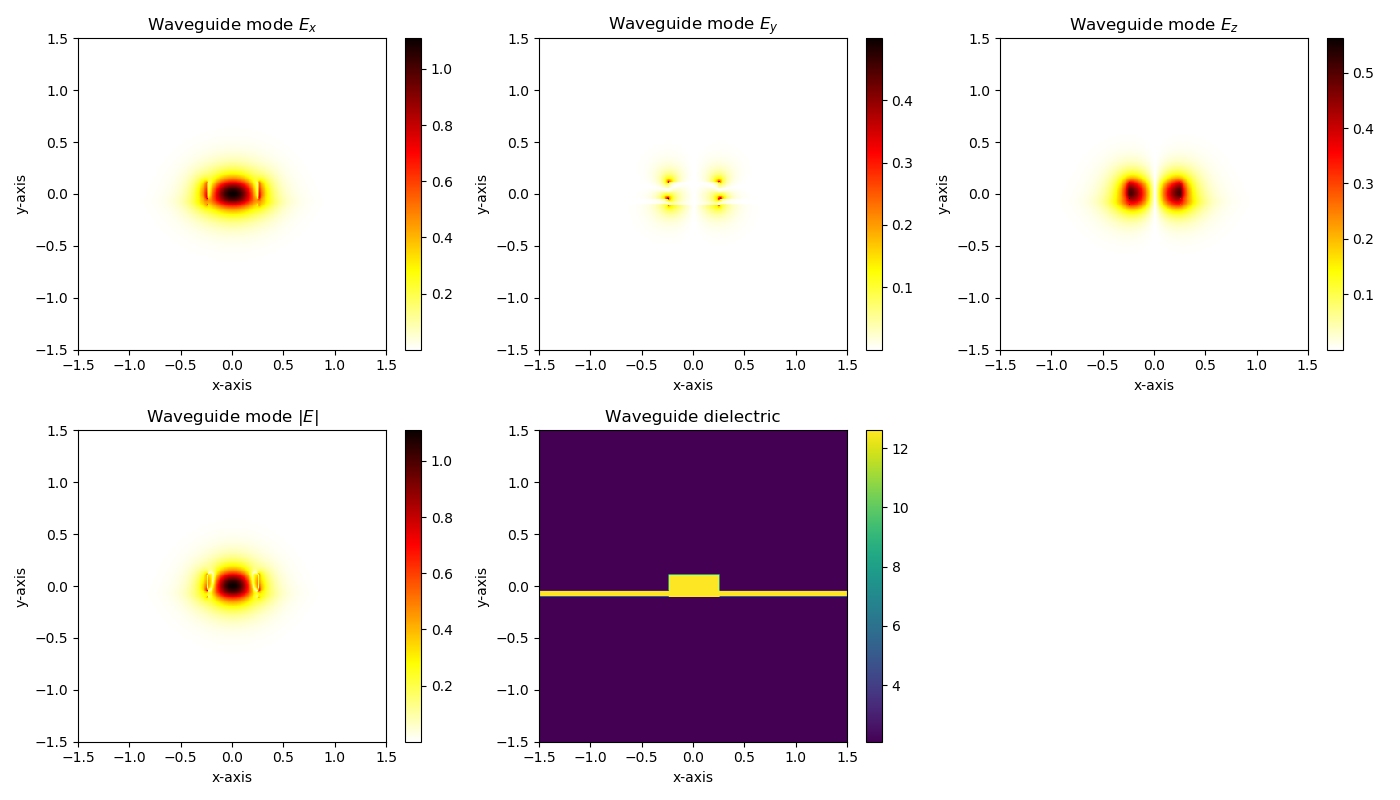
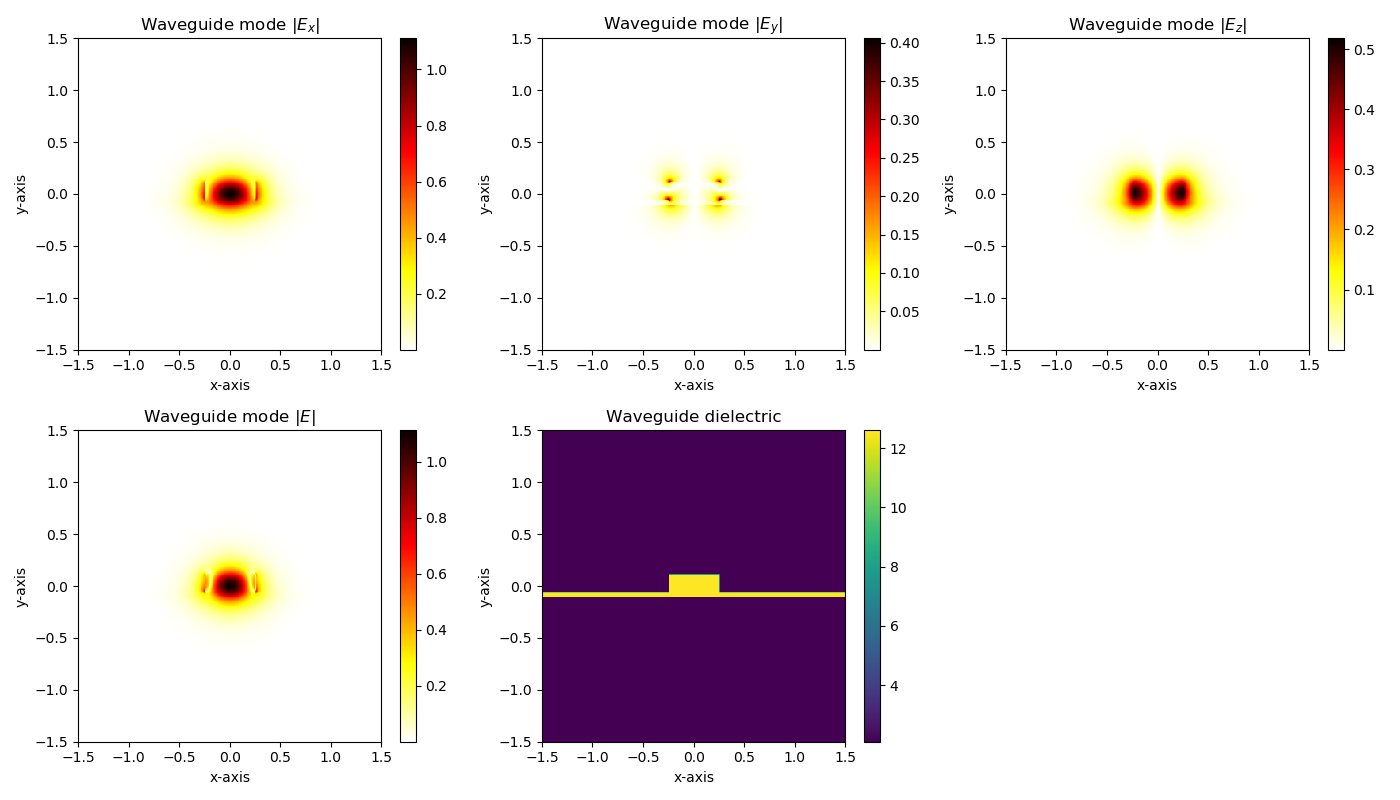
fix picsim docs compute_mode example

diff --git a/picwriter/mcm.py b/picwriter/mcm.py
@@ -125,21 +125,21 @@ def main(args):
 
     plt.subplot(2, 3, 1)
     plt.imshow(abs(E[:,:,0,2]),cmap=cmap_fields,origin='lower',aspect='auto', extent=plt_extent)
-    plt.title("Waveguide mode $E_x$")
+    plt.title("Waveguide mode $|E_x|$")
     plt.ylabel("y-axis")
     plt.xlabel("x-axis")
     plt.colorbar()
 
     plt.subplot(2, 3, 2)
     plt.imshow(abs(E[:,:,0,1]),cmap=cmap_fields,origin='lower',aspect='auto', extent=plt_extent)
-    plt.title("Waveguide mode $E_y$")
+    plt.title("Waveguide mode $|E_y|$")
     plt.ylabel("y-axis")
     plt.xlabel("x-axis")
     plt.colorbar()
 
     plt.subplot(2, 3, 3)
     plt.imshow(abs(E[:,:,0,0]),cmap=cmap_fields,origin='lower',aspect='auto', extent=plt_extent)
-    plt.title("Waveguide mode $E_z$")
+    plt.title("Waveguide mode $|E_z|$")
     plt.ylabel("y-axis")
     plt.xlabel("x-axis")
     plt.colorbar()
@@ -169,21 +169,21 @@ def main(args):
 
     plt.subplot(2, 3, 1)
     plt.imshow(abs(H[:,:,0,2]),cmap=cmap_fields,origin='lower',aspect='auto', extent=plt_extent)
-    plt.title("Waveguide mode $H_x$")
+    plt.title("Waveguide mode $|H_x|$")
     plt.ylabel("y-axis")
     plt.xlabel("x-axis")
     plt.colorbar()
 
     plt.subplot(2, 3, 2)
     plt.imshow(abs(H[:,:,0,1]),cmap=cmap_fields,origin='lower',aspect='auto', extent=plt_extent)
-    plt.title("Waveguide mode $H_y$")
+    plt.title("Waveguide mode $|H_y|$")
     plt.ylabel("y-axis")
     plt.xlabel("x-axis")
     plt.colorbar()
 
     plt.subplot(2, 3, 3)
     plt.imshow(abs(H[:,:,0,0]),cmap=cmap_fields,origin='lower',aspect='auto', extent=plt_extent)
-    plt.title("Waveguide mode $H_z$")
+    plt.title("Waveguide mode $|H_z|$")
     plt.ylabel("y-axis")
     plt.xlabel("x-axis")
     plt.colorbar()

diff --git a/docs/source/picsim-documentation.rst b/docs/source/picsim-documentation.rst
@@ -17,7 +17,7 @@ The mapping of GDSII layers/datatypes to vertical dielectric profiles is done by
     etch_stack = [(epsSiO2, 1.89), (epsSi, 0.07), (epsSiO2, 2.04)]
     mstack = ps.MaterialStack(vsize=4.0, default_stack=etch_stack, name="Si waveguide")
     waveguide_stack = [(epsSiO2, 1.89), (epsSi, 0.22), (epsSiO2, 1.89)]
-    clad_stack = [(epsSiO2, 1.9), (epsSi, 0.05), (epsSiO2, 2.05)]
+    clad_stack = [(epsSiO2, 1.89), (epsSi, 0.05), (epsSiO2, 2.06)]
     mstack.addVStack(layer=1, datatype=0, stack=waveguide_stack)
     mstack.addVStack(layer=2, datatype=0, stack=clad_stack)
     
